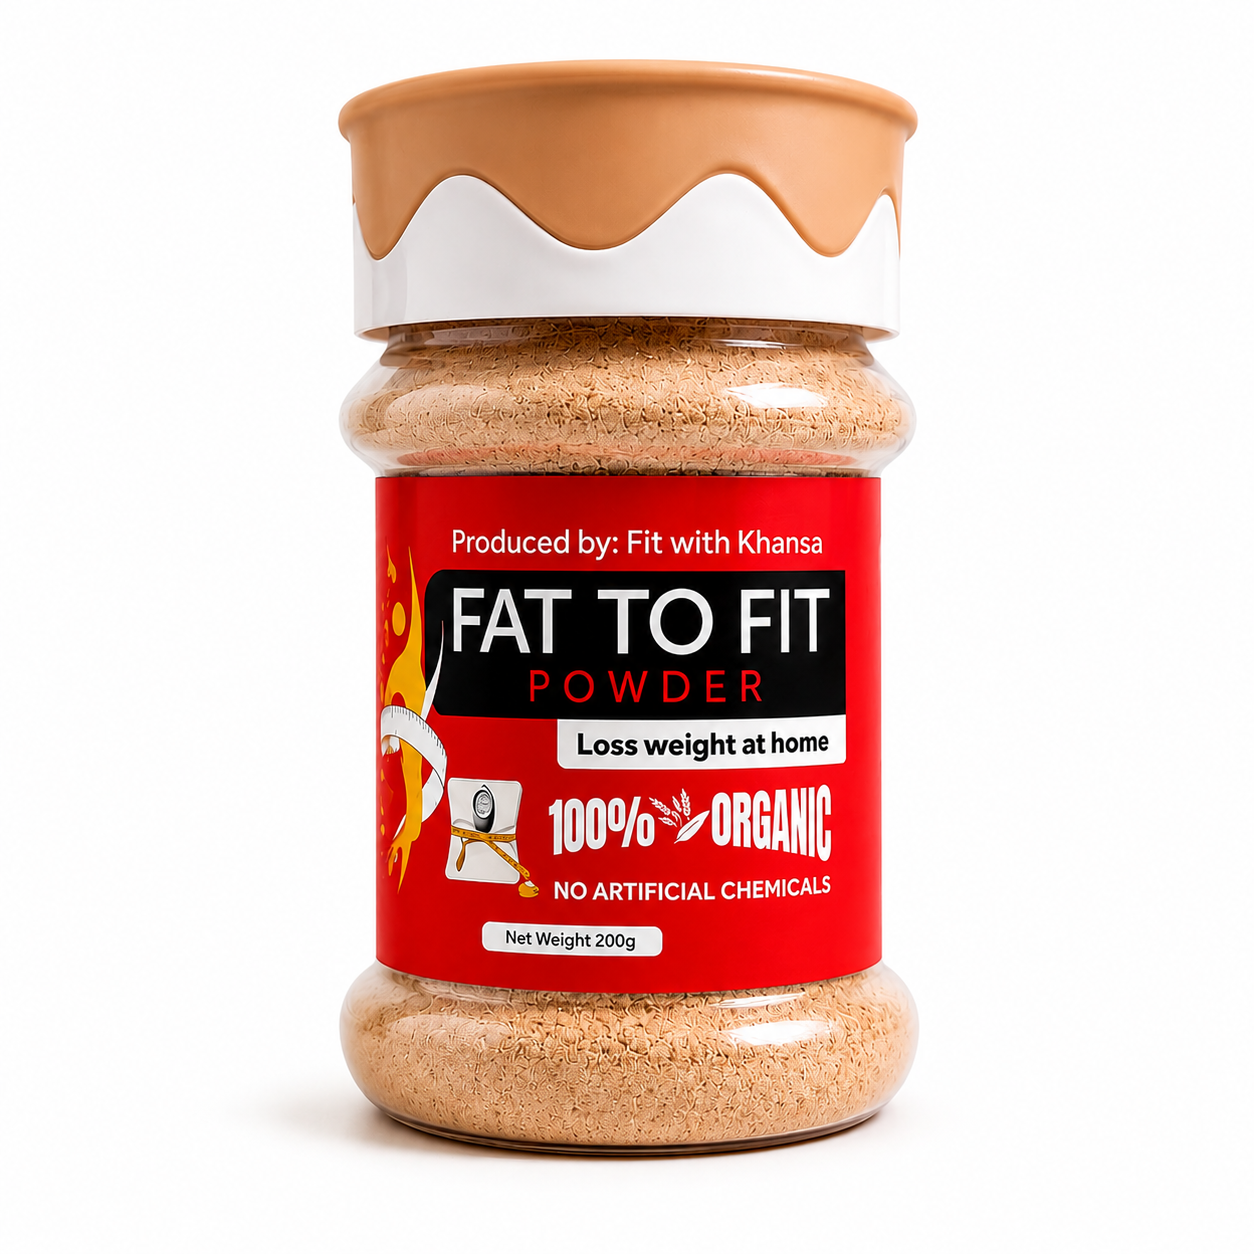
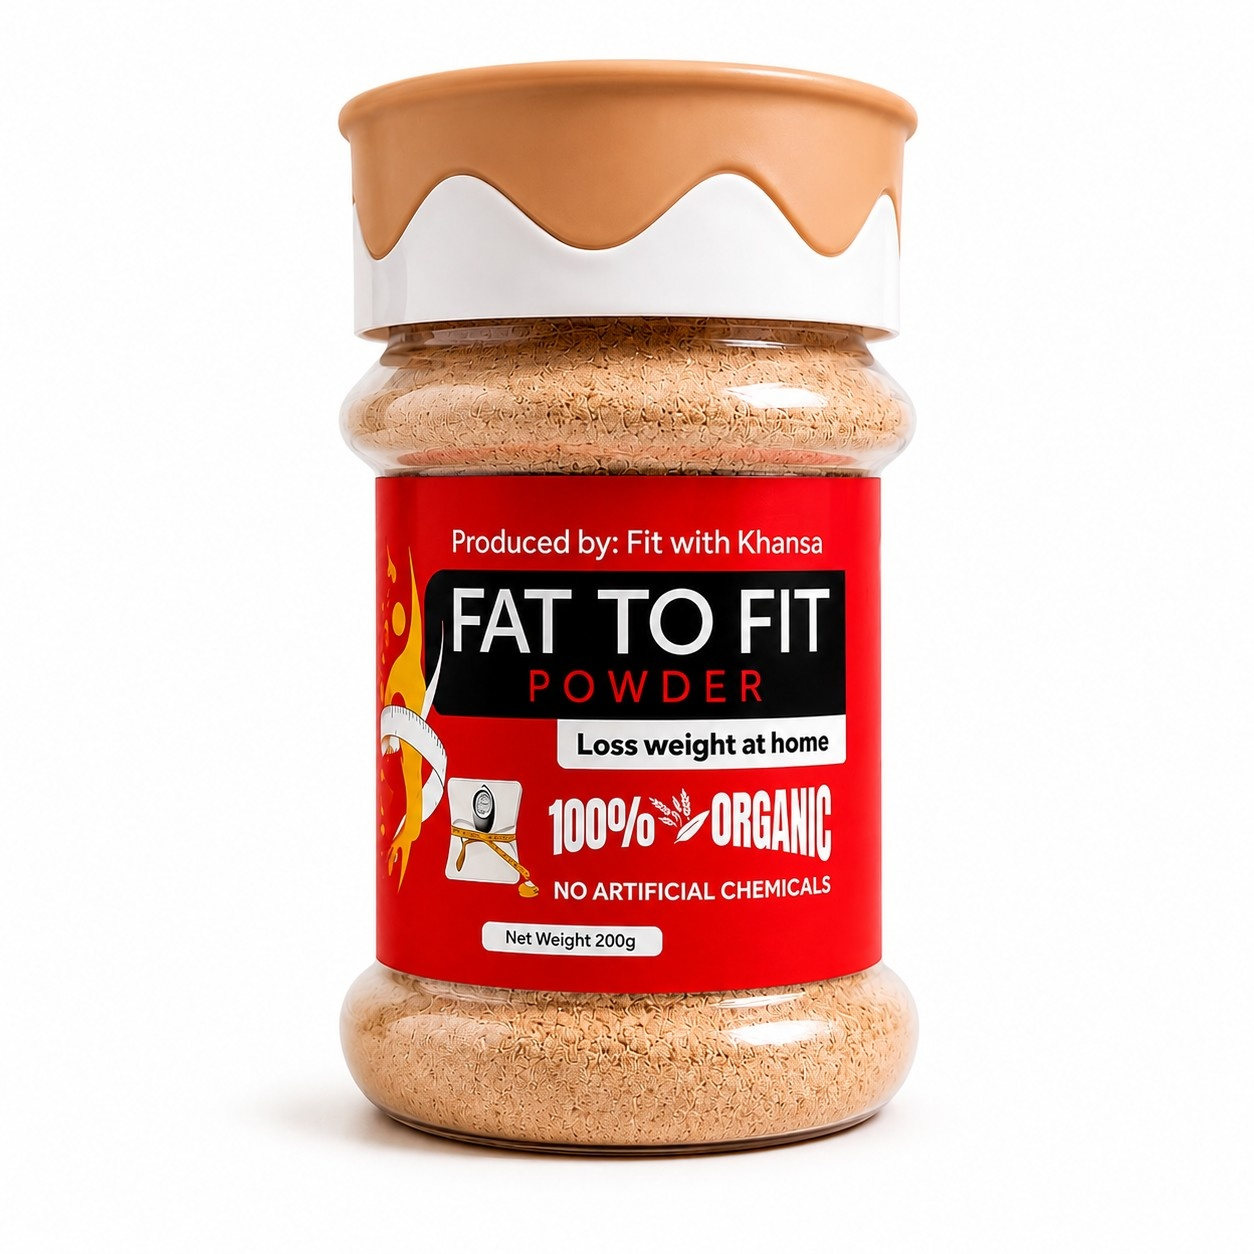
seo done :)

diff --git a/index.html b/index.html
@@ -3,7 +3,6 @@
 <head>
 <head>
   <meta charset="UTF-8">
-  <link rel="stylesheet" href="https://cdnjs.cloudflare.com/ajax/libs/font-awesome/6.5.0/css/all.min.css" />
 
   <!-- RESPONSIVE -->
   <meta name="viewport" content="width=device-width, initial-scale=1.0">
@@ -69,6 +68,12 @@ content="Fit with Khansa, weight loss program Pakistan, online diet coach, nutri
    <link
   href="https://cdn.jsdelivr.net/npm/remixicon@4.5.0/fonts/remixicon.css"
   rel="stylesheet"/>
+
+
+
+      <!-- Font Awesome CDN -->
+    <link rel="stylesheet" href="https://cdnjs.cloudflare.com/ajax/libs/font-awesome/6.5.0/css/all.min.css">
+    <link rel="stylesheet" href="https://cdnjs.cloudflare.com/ajax/libs/font-awesome/6.5.0/css/all.min.css" />
 
 </head>
 
@@ -169,7 +174,7 @@ content="Fit with Khansa, weight loss program Pakistan, online diet coach, nutri
          <div class="hero-all-img">
            <img class="hero-img-comp-1 bounce" src="./images/hero-component-1.svg" alt="icon" height="60px" loading="eager">
           <div class="hero-round-bg">
-            <img class="hero-girl-img bounce-girl" src="./images/khansa-atif-hero-img.png" alt="icon">
+            <img class="hero-girl-img bounce-girl" src="./images/khansa-atif-hero-img.png" alt="icon" loading="eager">
             <img class="hero-img-comp-2 bounce" src="./images/s-hero-img-component-2.svg" alt="icon" height="50px" loading="eager">
           </div>
           <img  class="hero-img-comp-3" src="./images/s-hero-img-component-2.svg" alt="icon" height="50px" loading="eager">
@@ -237,7 +242,7 @@ content="Fit with Khansa, weight loss program Pakistan, online diet coach, nutri
             <!-- RIGHT IMAGE -->
             <div class="mission-right">
               <div class="mission-img-box">
-                <img src="./images/running.png" alt="khansa_atif_mission_img" loading="lazy">
+                <img src="./images/running.jpeg" alt="khansa_atif_mission_img" loading="lazy">
               </div>
             </div>
           </div>
@@ -330,8 +335,7 @@ content="Fit with Khansa, weight loss program Pakistan, online diet coach, nutri
 
 
 
-                  <!-- Font Awesome CDN -->
-                  <link rel="stylesheet" href="https://cdnjs.cloudflare.com/ajax/libs/font-awesome/6.5.0/css/all.min.css">
+              
 
                   <section class="fitplan-premium-section" id="our-program">
                     <div class="primary-container">
@@ -387,6 +391,7 @@ content="Fit with Khansa, weight loss program Pakistan, online diet coach, nutri
                               src="./images/1o1-img.png" 
                               alt="Online fitness coaching session" 
                               class="fitplan-main-image"
+                              loading="lazy"
                             >
 
                             <div class="fitplan-feature">
@@ -507,7 +512,7 @@ content="Fit with Khansa, weight loss program Pakistan, online diet coach, nutri
    <section class="production-childer primary-container">
       <!-- LEFT IMAGE --> 
       <div class="f2f-product-image">
-         <div class="product-image-card"> <img src="./images/product-img.png" alt="Fat To Fit Powder"> </div>
+         <div class="product-image-card"> <img src="./images/product-img.png" alt="Fat-To-Fit-Powder" loading="lazy"> </div>
       </div>
       <!-- RIGHT CONTENT --> 
       <div class="f2f-product-content">